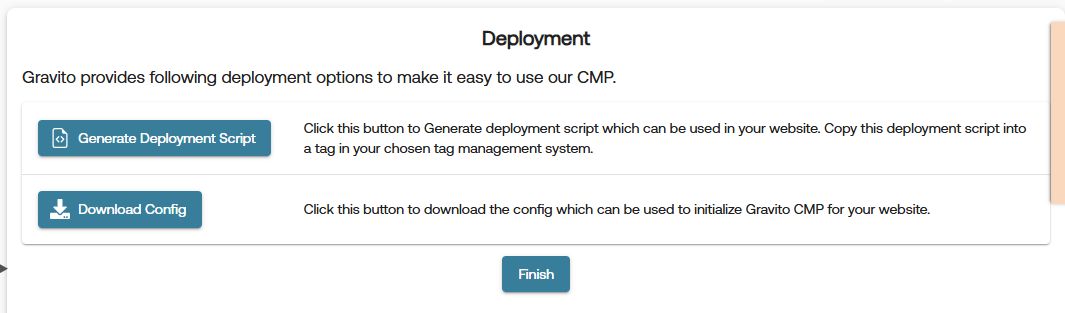
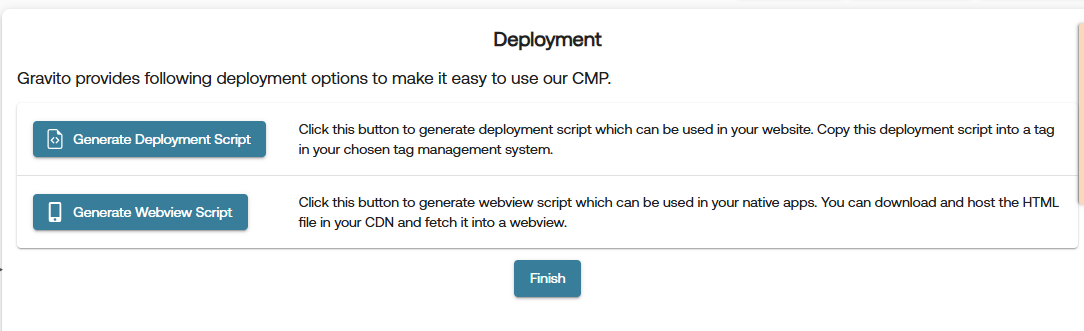
configurator webview documentation

diff --git a/docs/Gravito_V6_CMP/Deployment.md b/docs/Gravito_V6_CMP/Deployment.md
@@ -101,3 +101,15 @@ Utilize the deployment script to efficiently incorporate Gravito's CMP into your
 3. Click on the **Generate Deployment Script** button to generate the deployment script. This will open a modal with the generated script as shown in below image. You can paste this script in your website's `<body>` tag.
 
     ![](./img/script_deployment3.png)
+
+## 4. [Webview for Mobile apps](#webview)
+Gravito CMP (New) can be integrated into mobile applications using a webview. This allows you to display the CMP within your app, providing a consistent user experience across platforms. Please follow the steps below to deploy using the webview:
+
+1. First, select any of the above deployment methods (GTM, WordPress Plugin, or Deployment Script) to publish your CMP configuration.
+2. Once published, you can generate a webview script by clicking on the **Generate Webview Script** button in the Deployment tab.
+
+    ![](./img/script_deployment2.png)
+
+3. This will open a modal with the generated webview script as shown in the image below. You can download this script as `html` and host it on you server or CDN and use it in your mobile app's webview.
+
+    ![](./img/webview_script.png)
